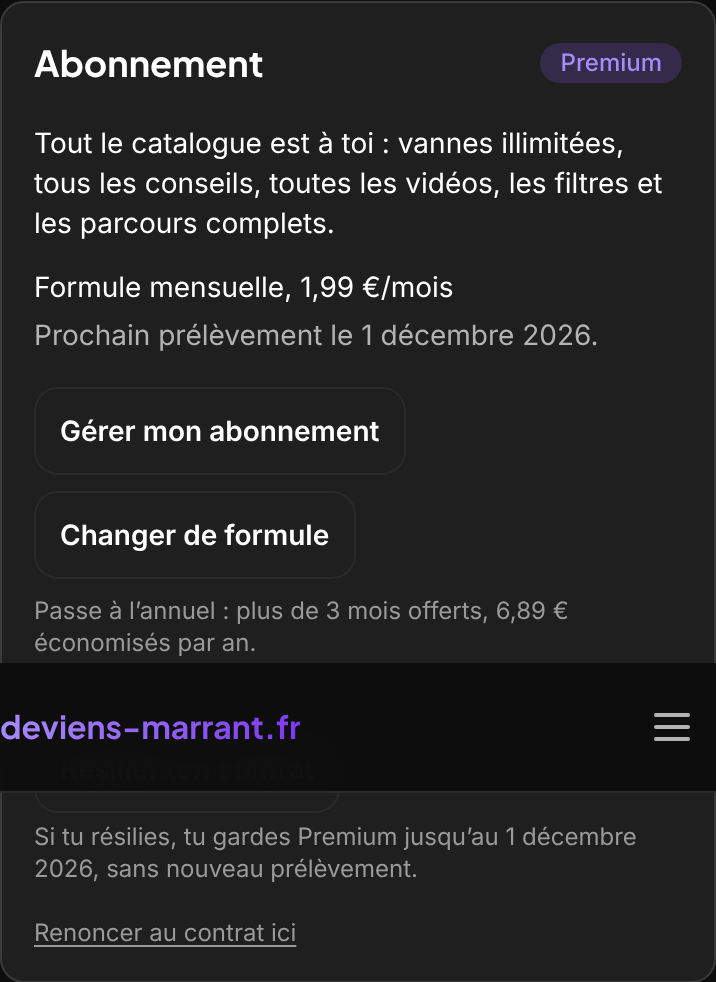
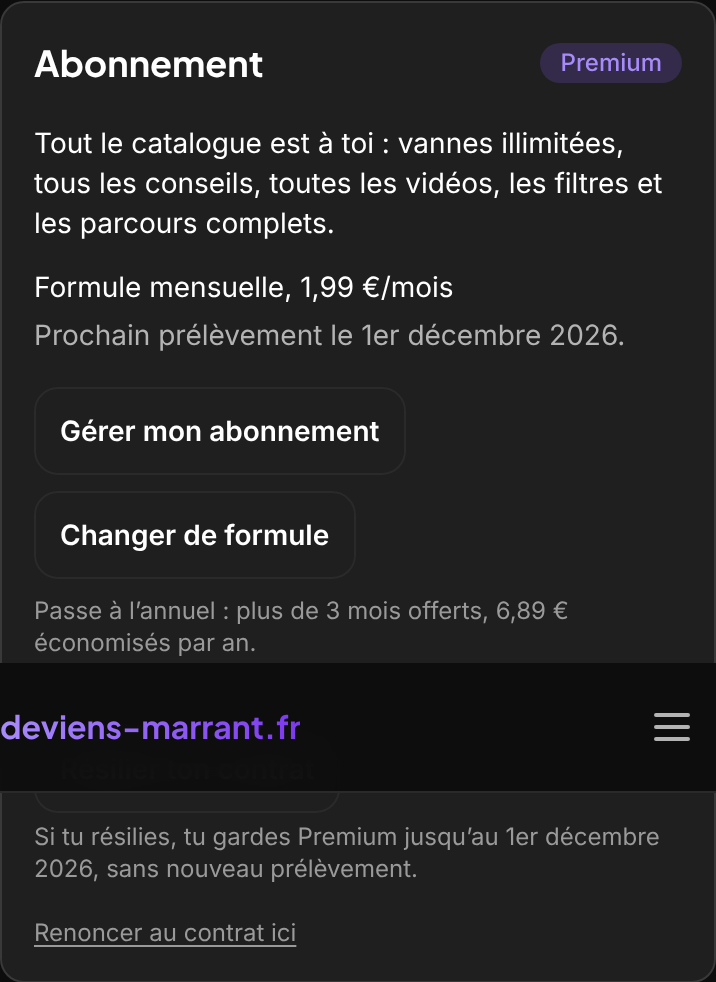
s23 : squelette de /resiliation limité à la page (groupe (formulaire)), captures v3 68 PASS / 0 FAIL, REPLIT_ACTIONS
loading.tsx à la racine du segment enveloppait aussi /resiliation/confirmee : le
squelette « Résilier ton contrat » s'affichait juste après la confirmation. Page et
squelette rangés dans (formulaire) ; layout.tsx au-dessus : 404 fermé reprouvé au curl.

Claude-Session: https://claude.ai/code/session_012PS7SoSVmP89FeCa8Yu1ww

Changed region(s): [[0.5223, 0.3055, 0.8603, 0.3666], [0.7067, 0.8248, 0.9218, 0.8859]]

diff --git a/apps/web/src/__tests__/feature/resiliation-pages-serveur-s23.test.ts b/apps/web/src/__tests__/feature/resiliation-pages-serveur-s23.test.ts
@@ -27,7 +27,7 @@ const lire = jest.fn();
 jest.mock("@/lib/resiliation", () => ({ lireResiliation: (...a: unknown[]) => lire(...a) }));
 
 import type { ReactElement } from "react";
-import ResiliationPage from "@/app/(dashboard)/resiliation/page";
+import ResiliationPage from "@/app/(dashboard)/resiliation/(formulaire)/page";
 import ConfirmeePage from "@/app/(dashboard)/resiliation/confirmee/page";
 
 const drapeau = globalThis as { __RESILIATION_OUVERTE__?: boolean };
@@ -187,19 +187,23 @@ describe("UX C4 : interrupteur testé dans layout.tsx, au-dessus du Suspense de 
     expect(Layout({ children: "page" })).toBe("page");
   });
 
-  it("un seul loading.tsx, à côté du layout.tsx ; aucun ailleurs (sinon 200 au lieu de 404, piège s17)", () => {
+  it("un seul loading.tsx, sous le layout.tsx et pour /resiliation seul ; aucun ailleurs (sinon 200 au lieu de 404, piège s17)", () => {
     expect(fs.existsSync(path.join(dossier, "layout.tsx"))).toBe(true);
-    expect(fs.existsSync(path.join(dossier, "loading.tsx"))).toBe(true);
+    expect(fs.existsSync(path.join(dossier, "(formulaire)/loading.tsx"))).toBe(true);
+    // Pas à la racine du segment : il envelopperait aussi /resiliation/confirmee (squelette
+    // « Résilier ton contrat » affiché juste après la confirmation, constaté sur les captures).
+    expect(fs.existsSync(path.join(dossier, "loading.tsx"))).toBe(false);
+    expect(fs.existsSync(path.join(dossier, "page.tsx"))).toBe(false);
     expect(fs.existsSync(path.join(dossier, "confirmee/loading.tsx"))).toBe(false);
     expect(fs.existsSync(path.join(dossier, "../loading.tsx"))).toBe(false);
     // Les pages gardent leur propre test (double sécurité si le layout était contourné).
-    for (const f of ["page.tsx", "confirmee/page.tsx"]) {
+    for (const f of ["(formulaire)/page.tsx", "confirmee/page.tsx"]) {
       expect(fs.readFileSync(path.join(dossier, f), "utf8")).toMatch(/if \(!RESILIATION_PAGE_OUVERTE\) notFound\(\);/);
     }
   });
 
   it("loading.tsx : H1, carte squelette, aucun bouton ni lien", () => {
-    const Loading = (require("@/app/(dashboard)/resiliation/loading") as { default: () => ReactElement }).default;
+    const Loading = (require("@/app/(dashboard)/resiliation/(formulaire)/loading") as { default: () => ReactElement }).default;
     const html = renderToStaticMarkup(Loading());
     expect(html).toContain("<h1");
     expect(html).toContain("Résilier ton contrat");

diff --git a/apps/web/src/app/(dashboard)/resiliation/layout.tsx b/apps/web/src/app/(dashboard)/resiliation/layout.tsx
@@ -3,8 +3,8 @@ import { notFound } from "next/navigation";
 import { RESILIATION_PAGE_OUVERTE } from "@/config/resiliation";
 
 /**
- * s23, UX C4 : l'interrupteur est testé ICI, au-dessus de la frontière Suspense de `loading.tsx`
- * (même segment) : `notFound()` part avant tout flux, donc statut 404 interrupteur fermé (un
+ * s23, UX C4 : l'interrupteur est testé ICI, au-dessus de la frontière Suspense de
+ * `(formulaire)/loading.tsx` : `notFound()` part avant tout flux, donc statut 404 interrupteur fermé (un
  * `notFound()` dans la seule page, sous le Suspense, donnait 200). Les pages gardent leur propre
  * test (double sécurité). Preuve build + curl : REPLIT_ACTIONS.md, entrée « À DÉPLOYER ».
  */

diff --git a/apps/web/src/app/(dashboard)/resiliation/(formulaire)/loading.tsx b/apps/web/src/app/(dashboard)/resiliation/(formulaire)/loading.tsx
@@ -5,7 +5,9 @@ import { cn } from "@/lib/utils";
 /**
  * s23, UX C4 : squelette pendant la lecture du compte (connexion lente). H1, une carte de ~270 px,
  * 3 lignes, aucun bouton. Même colonne que `page.tsx` (et même hauteur minimale, design O5).
- * Servi seulement interrupteur ouvert : `layout.tsx` renvoie 404 avant ce Suspense.
+ * Servi seulement interrupteur ouvert : `../layout.tsx` renvoie 404 avant ce Suspense. Rangé dans le
+ * groupe `(formulaire)` pour ne couvrir QUE /resiliation : à la racine du segment, il enveloppait aussi
+ * /resiliation/confirmee et affichait « Résilier ton contrat » juste après la confirmation.
  */
 export default function ResiliationLoading() {
   return (

diff --git a/REPLIT_ACTIONS.md b/REPLIT_ACTIONS.md
@@ -7,9 +7,9 @@
 - Décision de Thomas du 06/11 (founder-preferences : raison demandée AVANT, sur notre propre écran). Specs : `docs/ux/page-resiliation-s23-spec.md` (v3), `docs/design/page-resiliation-s23-design.md`, `docs/copy/page-resiliation-s23-textes.md` (textes PROVISOIRES, recos A), cadre `docs/legal/resiliation-onboarding-cadre-s23.md` (partie A). Commit du code : `b27a6d7` (branche `claude/ouverture-session-nzwj0w`).
 - **Fermé (état livré) = comportement actuel inchangé, SAUF UX C1 (v3)** : sur la carte Abonnement du profil, la date s'écrit « 1er décembre 2026 » au lieu de « 1 décembre 2026 » (défaut déjà en production, corrigé ; captures `c1-avant-profil-carte-abonnement-{pc-1440,mobile-390}` puis `c1-apres-…`, interrupteur fermé). Pour le reste : pied de page « Résilier ton contrat » vers `/profil#abonnement`, carte abonnement avec le bouton du portail Stripe, `/resiliation`, `/resiliation/confirmee` et `POST /api/user/subscription/resiliation` en 404, webhook Stripe qui envoie « C'est noté » comme avant. Seul ajout visible fermé : la section « Motifs de résiliation » de l'admin (Abonnés › Premium et comptes), avec la note « écran fermé ».
 - **Ouvert** (plus tard, sur go) : `/resiliation` (connexion puis retour), récapitulatif lu en base (Stripe si un champ manque), question facultative (7 raisons + mot de 500 caractères), « Confirmer la résiliation » collé en bas, toujours actif ; route : Stripe `cancel_at_period_end: true` D'ABORD (clé d'idempotence), puis motif dans `CancellationFeedback` (jamais bloquant), puis accusé « C'est noté » (anti-doublon avec le webhook par la clé `email-resiliation:<abonnement>` de `WebhookEvent`, 10 min) ; erreur Stripe ou Premium sans client Stripe : e-mail à alex@ « Résiliation à faire à la main » + alerte A `paiement-resiliation-a-faire` + accusé « Ta demande de résiliation est bien reçue » ; App Store (appli) : message Apple. Pied de page, carte du profil et parcours `resilier` du portail mènent à `/resiliation`.
-- Fichiers : `apps/web/src/config/resiliation.ts` (interrupteur, raisons), `config/textes/resiliation.ts`, `config/textes/resiliation-emails.ts`, `lib/resiliation.ts`, `lib/admin/motifs-resiliation.ts`, `app/(dashboard)/resiliation/page.tsx`, `.../confirmee/page.tsx`, `.../error.tsx`, `app/api/user/subscription/resiliation/route.ts`, `app/api/admin/resiliations/route.ts`, `components/resiliation/*` (8 fichiers), `components/admin/motifs-resiliation-section.tsx` ; modifiés : `components/layout/footer.tsx`, `components/profil/abonnement-card.tsx`, `components/admin/abonnes-tab.tsx`, `app/(auth)/login/page.tsx` (phrase de contexte, ouvert seulement), `app/api/stripe/webhook/route.ts` (anti-doublon, ouvert seulement), `app/api/user/subscription/portal/route.ts` (parcours `resilier` vers `/resiliation`, ouvert seulement), `prisma/schema.prisma` (modèle `CancellationFeedback` + relation sur `User`, sans colonne). Tests : `api/resiliation-s23.test.ts`, `feature/resiliation-page-s23.test.tsx`, `feature/resiliation-pages-serveur-s23.test.ts`. Captures : `docs/captures/s23-resiliation/` (script `scripts/qa-resiliation-s23/`).
+- Fichiers : `apps/web/src/config/resiliation.ts` (interrupteur, raisons), `config/textes/resiliation.ts`, `config/textes/resiliation-emails.ts`, `lib/resiliation.ts`, `lib/admin/motifs-resiliation.ts`, `app/(dashboard)/resiliation/(formulaire)/page.tsx` (déplacé en v3), `.../layout.tsx` et `.../(formulaire)/loading.tsx` (v3), `.../confirmee/page.tsx`, `.../error.tsx`, `app/api/user/subscription/resiliation/route.ts`, `app/api/admin/resiliations/route.ts`, `components/resiliation/*` (8 fichiers), `components/admin/motifs-resiliation-section.tsx` ; modifiés : `components/layout/footer.tsx`, `components/profil/abonnement-card.tsx`, `components/admin/abonnes-tab.tsx`, `app/(auth)/login/page.tsx` (phrase de contexte, ouvert seulement), `app/api/stripe/webhook/route.ts` (anti-doublon, ouvert seulement), `app/api/user/subscription/portal/route.ts` (parcours `resilier` vers `/resiliation`, ouvert seulement), `prisma/schema.prisma` (modèle `CancellationFeedback` + relation sur `User`, sans colonne). Tests : `api/resiliation-s23.test.ts`, `feature/resiliation-page-s23.test.tsx`, `feature/resiliation-pages-serveur-s23.test.ts`. Captures : `docs/captures/s23-resiliation/` (script `scripts/qa-resiliation-s23/`).
 - **v2 (06/11, commit `c260215`) : corrections des 4 revues v1** (`docs/{design,ux,legal,copy}/revues-resiliation/*-v1.md`), toujours FERMÉ. Design O1 à O4 ; UX O1 (page finale sans aide ni « Merci », aucun chiffre), O2 (connexion sans bloc d'inscription), O3 (saisie gardée après 401), O4 (message « refus » pour 429/403/500), O5 (App Store à l'ouverture, carte seule), O7 (accès offert : « à la fin de ton accès Premium », sans ligne de prélèvement), O8 ; legal O1 (mention sous le champ libre), O2 et O3 (confidentialité parties 2, 3, 6, 7, ancre `#resiliation`, publiées SEULEMENT ouvert ; « Dernière mise à jour » de la confidentialité seule), O4 et O5 ; reviewer O1 (503 si l'équipe est prévenue, sinon 500), O2 (webhook comparé à l'heure de l'événement), O3 (tests). **Valeurs PROVISOIRES à confirmer par Thomas, une ligne chacune dans `config/resiliation.ts`** : `RESILIATION_CONSERVATION_MOIS = 24`, `RESILIATION_DELAI_EQUIPE = "sous un jour ouvré"`. Purge des réponses de plus de 24 mois dans la tâche quotidienne de 4 h existante (`runLettreHebdoEntretienJob`, essai à part, sans verrou) ; mot libre effacé à la suppression du compte (`lib/resiliation-conservation.ts`). Fermé, ces deux ajouts tournent mais ne trouvent pas la table (migration 17 non jouée) : 0, aucune erreur, aucune écriture. Arbitrages : bandeau d'erreur = UX O8 + legal O5 réunis ; 503 = reviewer O1 + legal O4 option 1 (accusé de demande à l'adresse de la session, la plus prudente pour l'abonné) ; UX O7 retenu contre legal R3 (recommandation). **UX O6 (`loading.tsx`) refusé sur preuve** : build interrupteur fermé avec `resiliation/loading.tsx`, `curl` `/resiliation` et `/resiliation/confirmee` → **200** (squelette « Résilier ton contrat » servi) au lieu de 404 ; fichier retiré, test `resiliation-pages-serveur-s23` qui l'interdit (remplacé en v3 par UX C4 : `layout.tsx` + `loading.tsx`, 404 prouvé). Souhaitables appliqués (une ligne) : date de fin `text-2xl`, « Aucun nouveau prélèvement après. » et « Rien à résilier ici. » en texte principal, `deja_resilie` relit l'écran (reviewer S3), constante `RESILIATION_TIMEOUT_STRIPE_MS` inutilisée supprimée (S7). Vérifié sous `env -i` + variables factices de la CI : tsc build et complet, `next lint`, `npm run build`, Jest complet (5 979 tests, 0 échec) ; migration 17 inchangée, rejouée 2 fois sur base jetable (écart Prisma vide) ; captures locales 61 PASS, 0 FAIL, 39 captures, 0 appel Stripe (fermé : 404 pages et API, pied de page et carte inchangés, confidentialité sans ajout). Nouvelles captures : `resiliation-hors-ligne-*`, `resiliation-app-store-*`, `resiliation-vide-tablette-768`, `resiliation-confirmee-tablette-768`, `resiliation-vide-premier-ecran-pc-1440`, `apres-profil-carte-abonnement-*`, `resiliation-confidentialite-ancre-pc-1440`. Action Thomas inchangée (legal O6) : retirer « Annuler les abonnements » de la configuration du portail Stripe, capture du réglage ici.
-- **v3 (06/11, commits `2faee5c` et suivants) : corrections des 4 revues v2** (`docs/{design,ux,legal,copy}/revues-resiliation/*-v2.md`), toujours FERMÉ. **Design O5** (bande noire sous le pied de page sur les pages courtes en PC) : corrigé LOCALEMENT (règle de Thomas, retouche minimale ; `(dashboard)/layout.tsx` NON modifié) par une hauteur minimale mesurée sur `/resiliation`, `/resiliation/confirmee` et le squelette (`HAUTEUR_MIN_PAGE`, `components/resiliation/carte-app-store.tsx` : en-tête 65 px, marges 64 px, pied 478 px dès 1024 px, 668 px à 768 px). **À proposer à Thomas : le même défaut existe sur les autres pages courtes de l'espace connecté** (profil vide, /retractation, 404…), corrigeable une fois pour toutes dans le layout partagé (correctif design-v2 O5). **UX C1** (seul changement visible fermé, voir plus haut) : `abonnement-card.tsx` lit la date avec `dateFinLisible` (« 1er »). **UX C2** : abonné App Store possible, rien n'est affiché avant le verdict (plus d'éclair du formulaire). **UX C3** : capture `resiliation-clavier-mobile-390` (clavier SIMULÉ : viewport 390x450, focus dans « Un mot de plus ? », Playwright n'ouvre pas de clavier virtuel). **UX C4** : `resiliation/layout.tsx` (interrupteur testé au-dessus du Suspense) + `resiliation/loading.tsx` (squelette) ; **preuve : build interrupteur fermé + `curl` → `/resiliation` 404, `/resiliation/confirmee` 404, aucun squelette servi, `noindex`** ; gardés, test adapté (layout 404 fermé, un seul `loading.tsx`, pages qui gardent leur propre test). **@legal O7** (abonné en impayé, `PAST_DUE`) : flag `impaye` (lecture, récapitulatif, déjà résilié, page finale, accusé « C'est noté » avec le statut lu AVANT l'appel Stripe), textes prudents de legal-v2 mot pour mot ; la ligne « renouvellement annuel » n'est pas affichée en impayé (écran et e-mail, la facture ouverte peut être celle du renouvellement). **À VÉRIFIER EN MODE TEST STRIPE AVANT OUVERTURE** (pas de clé Stripe dans la session) : la facture ouverte d'un abonné `past_due` résilié en fin de période est-elle encore prélevée, avec les réglages de relances de Thomas. **@reviewer R1** (accès offert : bandeau « Ta demande est bien enregistrée… », pas de « Réessayer », retour à l'accueil ; accusé « jusqu'à la fin de ton accès Premium »), **R2 = legal O7** (« Aucun nouveau prélèvement après. » même texte écran, page finale, e-mail), **R3** (« Tu n'as rien à refaire, mais tu peux réessayer tout de suite. », provisoire, à valider par Thomas), **R4** (date de la demande dite une seule fois dans l'accusé de demande).
+- **v3 (06/11, commits `2faee5c` et suivants) : corrections des 4 revues v2** (`docs/{design,ux,legal,copy}/revues-resiliation/*-v2.md`), toujours FERMÉ. **Design O5** (bande noire sous le pied de page sur les pages courtes en PC) : corrigé LOCALEMENT (règle de Thomas, retouche minimale ; `(dashboard)/layout.tsx` NON modifié) par une hauteur minimale mesurée sur `/resiliation`, `/resiliation/confirmee` et le squelette (`HAUTEUR_MIN_PAGE`, `components/resiliation/carte-app-store.tsx` : en-tête 65 px, marges 64 px, pied 478 px dès 1024 px, 668 px à 768 px). **À proposer à Thomas : le même défaut existe sur les autres pages courtes de l'espace connecté** (profil vide, /retractation, 404…), corrigeable une fois pour toutes dans le layout partagé (correctif design-v2 O5). **UX C1** (seul changement visible fermé, voir plus haut) : `abonnement-card.tsx` lit la date avec `dateFinLisible` (« 1er »). **UX C2** : abonné App Store possible, rien n'est affiché avant le verdict (plus d'éclair du formulaire). **UX C3** : capture `resiliation-clavier-mobile-390` (clavier SIMULÉ : viewport 390x450, focus dans « Un mot de plus ? », Playwright n'ouvre pas de clavier virtuel). **UX C4** : `resiliation/layout.tsx` (interrupteur testé au-dessus du Suspense) + squelette `resiliation/(formulaire)/loading.tsx`, rangé avec la page dans le groupe `(formulaire)` (`page.tsx` déplacé, URL inchangée) : à la racine du segment, il enveloppait aussi `/resiliation/confirmee` et affichait « Résilier ton contrat » juste après la confirmation (constaté par les captures : contrôles page finale en échec), défaut corrigé avant tout commit de captures ; **preuve : build interrupteur fermé + `curl` → `/resiliation` 404, `/resiliation/confirmee` 404, aucun squelette servi, `noindex`** ; gardés, test adapté (layout 404 fermé, un seul `loading.tsx`, pages qui gardent leur propre test). **@legal O7** (abonné en impayé, `PAST_DUE`) : flag `impaye` (lecture, récapitulatif, déjà résilié, page finale, accusé « C'est noté » avec le statut lu AVANT l'appel Stripe), textes prudents de legal-v2 mot pour mot ; la ligne « renouvellement annuel » n'est pas affichée en impayé (écran et e-mail, la facture ouverte peut être celle du renouvellement). **À VÉRIFIER EN MODE TEST STRIPE AVANT OUVERTURE** (pas de clé Stripe dans la session) : la facture ouverte d'un abonné `past_due` résilié en fin de période est-elle encore prélevée, avec les réglages de relances de Thomas. **@reviewer R1** (accès offert : bandeau « Ta demande est bien enregistrée… », pas de « Réessayer », retour à l'accueil ; accusé « jusqu'à la fin de ton accès Premium »), **R2 = legal O7** (« Aucun nouveau prélèvement après. » même texte écran, page finale, e-mail), **R3** (« Tu n'as rien à refaire, mais tu peux réessayer tout de suite. », provisoire, à valider par Thomas), **R4** (date de la demande dite une seule fois dans l'accusé de demande). Vérifié sous `env -i` + variables factices de la CI : tsc build et complet, `next lint`, `npm run build`, Jest complet (5 992 tests, 0 échec) ; captures locales 68 PASS, 0 FAIL, 42 captures, 0 appel Stripe, 0 e-mail réel (fermé : `/resiliation`, `/resiliation/confirmee` et l'API en 404 au `curl`) ; nouvelles captures `resiliation-clavier-mobile-390`, `resiliation-impaye-{pc-1440,mobile-390}`, `c1-{avant,apres}-profil-carte-abonnement-*` (sur mobile, l'en-tête collant recouvre le bas de la capture découpée, artefact de capture identique avant et après). **Diff mesuré (P0 s11)** sur les fichiers de `apps/web/src` qui existaient avant `b27a6d7` : 13 fichiers, +228 / −25 depuis `b27a6d7^` ; la passe v3 n'en touche qu'un, `components/profil/abonnement-card.tsx` (+4 / −2, C1).
 - **Migration 17** (`apps/web/prisma/migrations/17_resiliation_motif_s23/migration.sql`) : une table neuve `CancellationFeedback`, aucune table existante modifiée, aucune donnée écrite. Idempotente : jouée 2 fois sur base jetable PostgreSQL 16 (2e passe OK, `prisma migrate diff` base contre schéma = migration vide). Fermé, rien ne lit ni n'écrit la table sauf le compteur de l'admin (« Table des motifs absente » sans elle). N-1 l'ignore.
   - P1 : sauvegarde (branche Neon ou `pg_dump` de la base de production) avant toute écriture.
   - P2 : jouer le fichier DEUX fois sur une base jetable copiée de la production (2e passe sans erreur), puis UNE fois en production, sur go de Thomas, AVANT le déploiement du code ; contrôle : `select count(*) from "CancellationFeedback"` = 0 et `\d "CancellationFeedback"` (9 colonnes, index `requestKey` unique, clé étrangère `ON DELETE SET NULL`).
